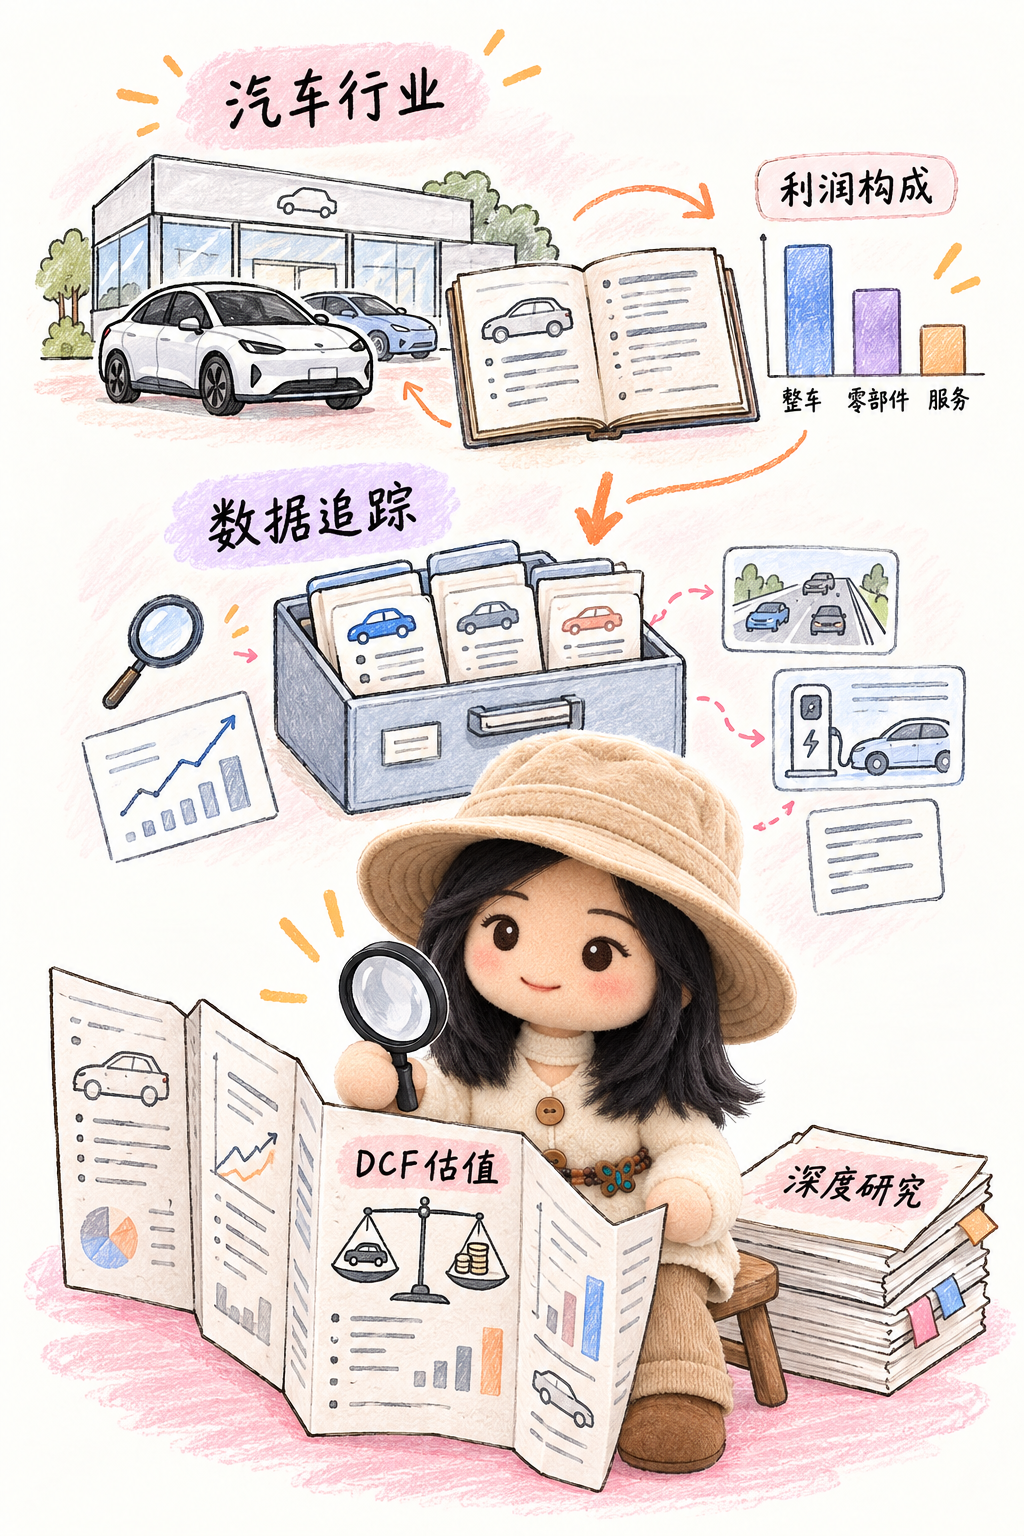
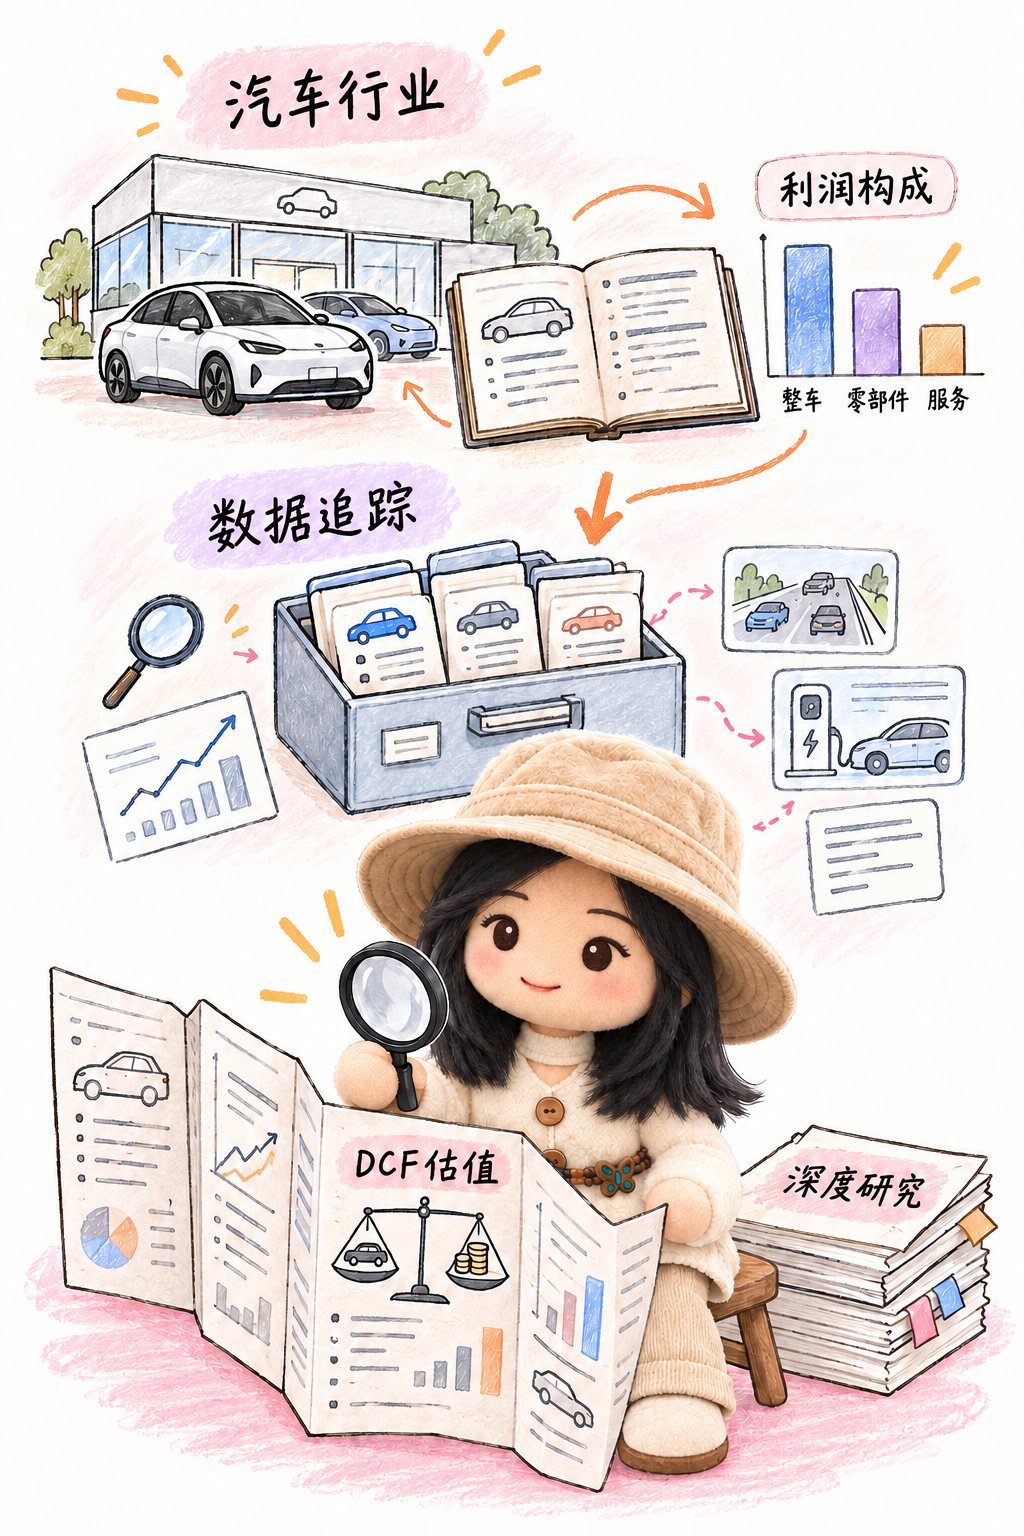
Publish portfolio from da55f7c1cf21

diff --git a/index.html b/index.html
@@ -265,12 +265,12 @@
 <li class="journey-stop journey-stop--cicc"><div class="journey-date"><div class="journey-date-top"><strong class="journey-position">研究部汽车组实习生</strong></div><span>2024.11 — 2025.02</span></div>
 <a class="journey-card" id="exp-cicc" data-company="cicc" href="experience-cicc.html" aria-label="查看中金公司实习详情">
 <div class="journey-card-head"><div class="journey-company"><span class="company-logo company-logo--cicc" aria-hidden="true"><img src="assets/company-logos/cicc-original.jpg" alt="" decoding="async"></span><h4>中金公司</h4></div></div>
-<img class="journey-image" src="assets/internship-illustrations/01-cicc-portrait-v2.png" alt="毛绒艺潞研究汽车行业，维护数据、拆解公司并做 DCF 估值" width="1024" height="1536" loading="lazy" decoding="async">
+<img class="journey-image" src="assets/internship-illustrations/01-cicc-portrait-v2.png?v=outfit" alt="毛绒艺潞研究汽车行业，维护数据、拆解公司并做 DCF 估值" width="1024" height="1536" loading="lazy" decoding="async">
 <div class="journey-outcome"><span class="journey-open" aria-hidden="true">↗</span><strong>40余页<span>行业深度报告</span></strong><p>汽车经销商研究 · 独立搭建 DCF 模型</p></div></a></li>
 <li class="journey-stop journey-stop--kwai"><div class="journey-date"><div class="journey-date-top"><strong class="journey-position">海外事业部战略分析实习生</strong></div><span>2026.01 — 2026.04</span></div>
 <a class="journey-card" id="exp-kwai" data-company="kwai" href="experience-kuaishou.html" aria-label="查看快手实习详情">
 <div class="journey-card-head"><div class="journey-company"><span class="company-logo company-logo--kwai" aria-hidden="true"><img src="assets/company-logos/kuaishou-original.jpg" alt="" decoding="async"></span><h4>快手</h4></div></div>
-<img class="journey-image" src="assets/internship-illustrations/02-kuaishou-portrait-v2.png" alt="毛绒艺潞从用户分层出发，通过访谈和中葡翻译理解真实需求" width="1024" height="1536" loading="lazy" decoding="async">
+<img class="journey-image" src="assets/internship-illustrations/02-kuaishou-portrait-v2.png?v=outfit" alt="毛绒艺潞从用户分层出发，通过访谈和中葡翻译理解真实需求" width="1024" height="1536" loading="lazy" decoding="async">
 <div class="journey-outcome"><span class="journey-open" aria-hidden="true">↗</span><strong>12类<span>用户人群</span></strong><p>用户分层与访谈 · 尝试 AI 用研</p></div></a></li>
 <li class="journey-stop journey-stop--byte"><div class="journey-date"><div class="journey-date-top"><strong class="journey-position">抖音电商数据分析实习生</strong></div><span>2026.05 — 2026.08</span></div>
 <a class="journey-card" id="exp-byte" data-company="byte" href="experience-bytedance.html" aria-label="查看字节跳动实习详情">

diff --git a/experience-cicc.html b/experience-cicc.html
@@ -17,7 +17,7 @@
     <symbol id="icon-briefcase" viewBox="0 0 100 100"><rect x="9" y="28" width="82" height="59" rx="12" fill="#f58540" stroke="#1d2440" stroke-width="5"/><path d="M34 27v-8q0-6 6-6h20q6 0 6 6v8M11 48q39 23 78 0" fill="none" stroke="#1d2440" stroke-width="5" stroke-linejoin="round"/><rect x="42" y="48" width="16" height="19" rx="4" fill="#f9fcf4" stroke="#1d2440" stroke-width="4"/></symbol>
   </defs></svg>
 
-<main id="main"><article class="detail-simple" aria-label="中金公司实习经历"><figure><img src="assets/internship-illustrations/01-cicc-portrait-v2.png" alt="毛绒艺潞研究汽车行业，维护数据、拆解公司并做 DCF 估值" width="1024" height="1536" decoding="async"></figure><section class="detail-resume"><h1>中金公司</h1><p class="detail-role">研究部汽车组行研实习生</p><ul>
+<main id="main"><article class="detail-simple" aria-label="中金公司实习经历"><figure><img src="assets/internship-illustrations/01-cicc-portrait-v2.png?v=outfit" alt="毛绒艺潞研究汽车行业，维护数据、拆解公司并做 DCF 估值" width="1024" height="1536" decoding="async"></figure><section class="detail-resume"><h1>中金公司</h1><p class="detail-role">研究部汽车组行研实习生</p><ul>
               <li><strong>汽车经销商行业深度研究：</strong>基于汽车经销商行业新车销售量价齐跌，行业进入洗牌阶段的现状，从新能源开放经销模式、竞争格局走向集中、利润结构转向售后三大角度分析其发展前景与应对方式，深度分析中升、永达 2 家龙头，独立搭建 DCF 财务估值模型，输出 40 余页行业深度报告</li>
               <li><strong>数据库搭建与监控：</strong>搭建涵盖 30+车企、50+核心指标的数据库并持续维护；运用数据透视表、VLOOKUP 函数制作包括价格走势、产销量、交强险上牌量等的月度趋势看板，输出 12 份数据周报与月报</li>
             </ul></section></article></main></body></html>

diff --git a/experience-kuaishou.html b/experience-kuaishou.html
@@ -17,7 +17,7 @@
     <symbol id="icon-briefcase" viewBox="0 0 100 100"><rect x="9" y="28" width="82" height="59" rx="12" fill="#f58540" stroke="#1d2440" stroke-width="5"/><path d="M34 27v-8q0-6 6-6h20q6 0 6 6v8M11 48q39 23 78 0" fill="none" stroke="#1d2440" stroke-width="5" stroke-linejoin="round"/><rect x="42" y="48" width="16" height="19" rx="4" fill="#f9fcf4" stroke="#1d2440" stroke-width="4"/></symbol>
   </defs></svg>
 
-<main id="main"><article class="detail-simple" aria-label="快手实习经历"><figure><img src="assets/internship-illustrations/02-kuaishou-portrait-v2.png" alt="毛绒艺潞从用户分层出发，通过访谈和中葡翻译理解真实需求" width="1024" height="1536" decoding="async"></figure><section class="detail-resume"><h1>快手</h1><p class="detail-role">海外事业部战略分析实习生</p><ul>
+<main id="main"><article class="detail-simple" aria-label="快手实习经历"><figure><img src="assets/internship-illustrations/02-kuaishou-portrait-v2.png?v=outfit" alt="毛绒艺潞从用户分层出发，通过访谈和中葡翻译理解真实需求" width="1024" height="1536" decoding="async"></figure><section class="detail-resume"><h1>快手</h1><p class="detail-role">海外事业部战略分析实习生</p><ul>
               <li><strong>非核心人群用户调研：</strong>基于营收和活跃度对大盘DAU进行12类人群划分，发现V9/11/12非核心人群（低活低营收）规模可观、但粘性较低，通过用户访谈完成促跃迁机会人群识别、防滑落摩擦点识别；利用Claude code构建AI用户招募工作流</li>
               <li><strong>巴西市场影视综扫描：</strong>测算巴西影视综时长分布与天花板，巴西已出现中长视频-&gt;短视频-&gt;短剧的时长变迁，以中国影视综时长占比为天花板，在互联网总时长稳定的假设下，其日均增量空间约14min</li>
             </ul></section></article></main></body></html>
